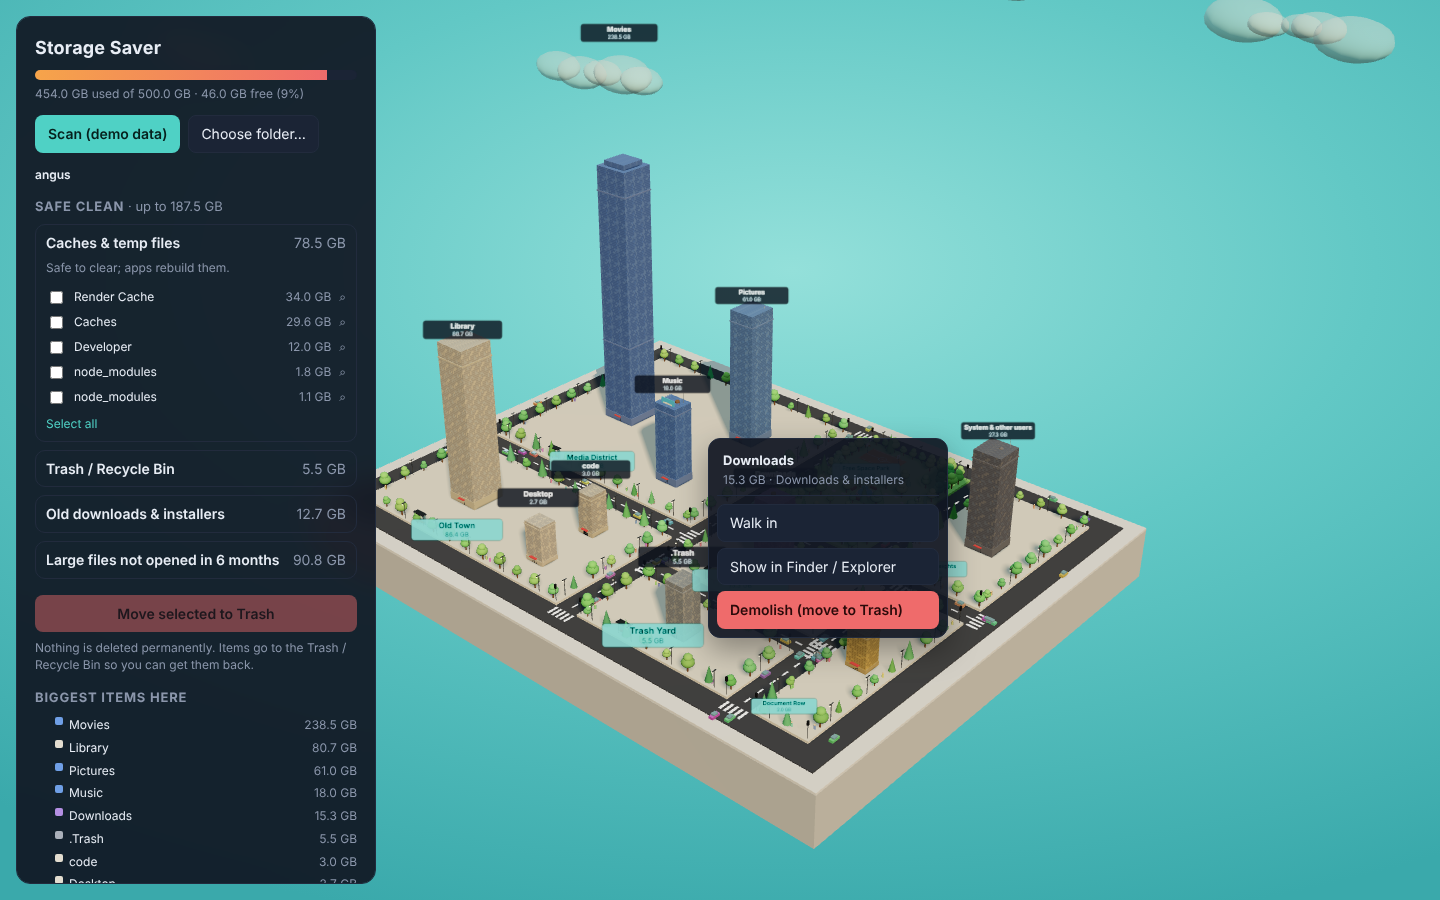
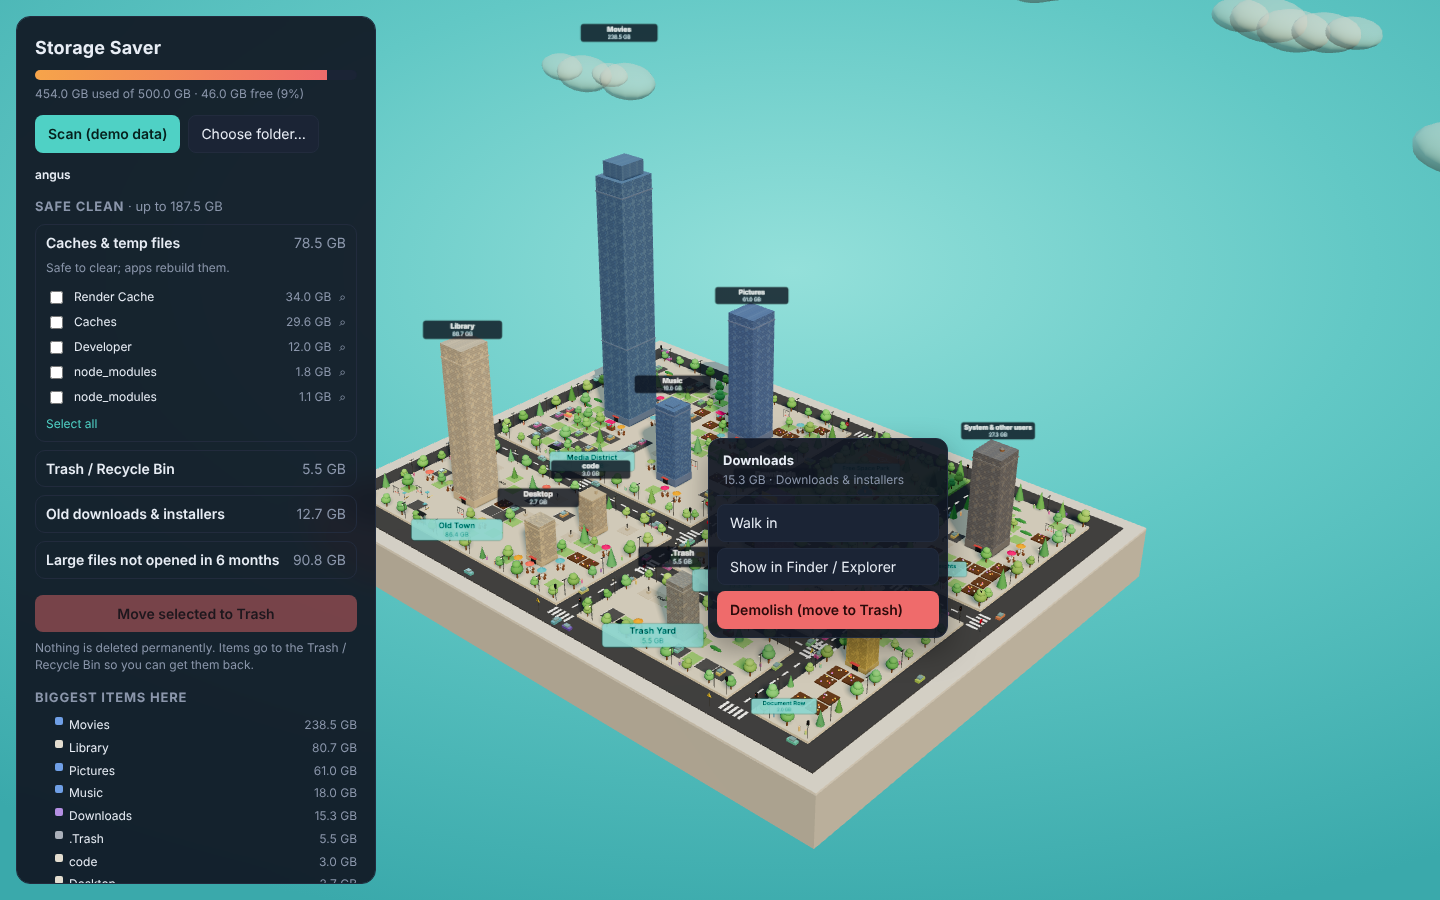
Traffic signals cars obey, road signs, cars on the road, clouds clear of towers
Signals run on a shared phase (north-south then east-west with an
all-red gap) and cars stop at the line before a crossing when their
street is red. Stop, one-way and warning signs stand beside crossings.
The ring road now sits inside the asphalt rather than on the kerb;
signal lamps sit on the face of their housing; clouds that cross the
city fly above the tallest spire.

Claude-Session: https://claude.ai/code/session_01S4hEwfN8N2XMNniWz1wTJB

diff --git a/src/renderer/app.js b/src/renderer/app.js
@@ -123,7 +123,9 @@ scene.add(clouds);
       s.position.set((i - n / 2) * 7 + Math.random() * 3, Math.random() * 2, Math.random() * 4);
       g.add(s);
     }
-    g.position.set(x, y, z);
+    // Clouds whose track crosses the city fly above the tallest spire; the
+    // low ones stay out beyond the plinth so nothing drifts through a tower.
+    g.position.set(x, Math.abs(z) < 70 ? Math.max(y, 92) : y, z);
     if (z > 100) g.scale.setScalar(0.55); // the cloud nearest the camera stays small
     g.userData.speed = 0.4 + Math.random() * 0.4;
     clouds.add(g);
@@ -772,9 +774,12 @@ function trafficSignals(x0, z0, w, d) {
   for (const [x, z] of corners) {
     piece(cylGeo, poleMat, x, 1.1, z, 0.08, 2.6, 0.08, false);
     piece(boxGeo, signalMat, x, 3.6, z, 0.3, 0.8, 0.3, false);
-    const go = Math.random() < 0.5;
-    const light = piece(sphereGeo, new THREE.MeshStandardMaterial({ color: go ? 0x3ddc84 : 0xff4d4d, emissive: go ? 0x1faa5a : 0xcc2222, emissiveIntensity: 1.2 }), x, go ? 3.7 : 4.15, z, 0.18, 0.18, 0.18, false);
-    light.userData.blink = Math.random() * 6;
+    // Signals at the left/right corners govern the north-south streets, the
+    // others the east-west ones; cars read the same phase (see updateLife).
+    const axis = (x < x0 + 1) === (z < z0 + 1) ? 'z' : 'x';
+    const light = piece(sphereGeo, new THREE.MeshStandardMaterial({ color: 0x3ddc84, emissive: 0x1faa5a, emissiveIntensity: 1.2 }), x, 3.7, z + 0.17, 0.16, 0.16, 0.16, false);
+    light.userData.signalAxis = axis;
+    light.userData.on = true;
   }
 }
 
@@ -856,16 +861,20 @@ function buildStreets(rects) {
     const len = st.to - st.from;
     const spots = [st.from + 3.2, st.to - 3.2];
     if (len > 40) spots.push((st.from + st.to) / 2);
-    for (const sp of spots) crosswalk(st, sp);
+    st.stops = spots;
+    for (const sp of spots) {
+      crosswalk(st, sp);
+      roadSign(st, sp);
+    }
     parkedCars(st);
   }
 
   // Ring road around the whole city.
-  const rx = BASE_W / 2 + 0.9;
-  const rz = BASE_D / 2 + 0.9;
+  const rx = BASE_W / 2 - 0.25; // centre of the ring road, inside the asphalt
+  const rz = BASE_D / 2 - 0.25;
   const ring = { loop: true, points: [[-rx, -rz], [rx, -rz], [rx, rz], [-rx, rz]] };
   const paths = [ring];
-  for (const st of streets) paths.push({ loop: false, points: st.axis === 'z' ? [[st.at, st.from], [st.at, st.to]] : [[st.from, st.at], [st.to, st.at]] });
+  for (const st of streets) paths.push({ loop: false, street: st, points: st.axis === 'z' ? [[st.at, st.from], [st.at, st.to]] : [[st.from, st.at], [st.to, st.at]] });
   for (const pth of paths) pth.length = pathLength(pth);
 
   // Cars.
@@ -895,6 +904,47 @@ function addRange(map, key, from, to) {
   }
   rest.push(merged);
   map.set(key, rest);
+}
+
+// Signal phase: north-south streets get 5 s green, then east-west, with a
+// short all-red gap so nobody meets in the middle of the junction.
+function greenFor(axis, t) {
+  const ph = t % 11;
+  if (axis === 'z') return ph < 5;
+  return ph >= 5.5 && ph < 10.5;
+}
+
+const signMats = {
+  stop: new THREE.MeshStandardMaterial({ color: 0xd62828, roughness: 0.6 }),
+  blue: new THREE.MeshStandardMaterial({ color: 0x2b6cb0, roughness: 0.6 }),
+  yellow: new THREE.MeshStandardMaterial({ color: 0xf6c90e, roughness: 0.6 }),
+};
+const octGeo = new THREE.CylinderGeometry(0.5, 0.5, 1, 8);
+octGeo.rotateX(Math.PI / 2);
+
+function roadSign(st, pos) {
+  // One sign on the pavement beside each crossing: stop, one-way, or a warning.
+  const side = Math.random() < 0.5 ? 1 : -1;
+  const off = STREET / 2 + 0.45;
+  const x = st.axis === 'z' ? st.at + side * off : pos + 2.2;
+  const z = st.axis === 'z' ? pos + 2.2 : st.at + side * off;
+  piece(cylGeo, poleMat, x, 1.1, z, 0.06, 2.4, 0.06, false);
+  const kind = Math.random();
+  if (kind < 0.4) {
+    piece(octGeo, signMats.stop, x, 3.3, z, 0.8, 0.8, 0.08, false);
+    piece(boxGeo, whiteMat, x, 3.25, z + 0.05, 0.5, 0.1, 0.02, false);
+  } else if (kind < 0.7) {
+    piece(boxGeo, signMats.blue, x, 3.1, z, 0.9, 0.5, 0.08, false);
+    piece(boxGeo, whiteMat, x, 3.33, z + 0.05, 0.55, 0.08, 0.02, false);
+  } else {
+    const tri = piece(coneGeo, signMats.yellow, x, 2.95, z, 0.9, 0.8, 0.08, false);
+    tri.rotation.y = 0;
+    piece(boxGeo, signalMat, x, 3.15, z + 0.05, 0.08, 0.35, 0.02, false);
+  }
+  if (st.axis === 'x') {
+    // Face the sign along the street.
+    for (let i = extras.length - 3; i < extras.length; i++) if (extras[i]) extras[i].rotation.y = Math.PI / 2;
+  }
 }
 
 function crosswalk(st, pos) {
@@ -989,7 +1039,20 @@ const _up = new THREE.Vector3(0, 1, 0);
 function updateLife(dt, t) {
   if (carMesh) {
     cars.forEach((c, i) => {
-      c.s += c.speed * dt * (c.lane > 0 ? 1 : -1);
+      const dir = c.lane > 0 ? 1 : -1;
+      let v = c.speed;
+      const st = c.path.street;
+      if (st && !greenFor(st.axis, t)) {
+        // Stop line 2 units before each crossing in our direction of travel.
+        const L = c.path.length;
+        const pos = st.from + (((c.s % L) + L) % L); // path starts at st.from
+        for (const sp of st.stops) {
+          const line = sp - dir * 2.2;
+          const gap = (line - pos) * dir;
+          if (gap > 0 && gap < 1.2) v = 0;
+        }
+      }
+      c.s += v * dt * dir;
       pointAt(c.path, c.s, _pt);
       // Right-hand lane offset.
       const ox = -_pt.dz * c.lane * 1.1;
@@ -1022,11 +1085,13 @@ function updateLife(dt, t) {
     peopleBody.instanceMatrix.needsUpdate = true;
     peopleHead.instanceMatrix.needsUpdate = true;
   }
-  // Blinking traffic signals.
+  // Traffic signals follow the global phase.
   for (const ex of extras) {
-    if (ex.userData.blink !== undefined && Math.floor((t + ex.userData.blink) / 4) % 2 === 0 !== ex.userData.on) {
-      ex.userData.on = !ex.userData.on;
-      const go = ex.userData.on;
+    const ax = ex.userData.signalAxis;
+    if (!ax) continue;
+    const go = greenFor(ax, t);
+    if (go !== ex.userData.on) {
+      ex.userData.on = go;
       ex.material.color.setHex(go ? 0x3ddc84 : 0xff4d4d);
       ex.material.emissive.setHex(go ? 0x1faa5a : 0xcc2222);
       ex.position.y = go ? 3.7 : 4.15;
